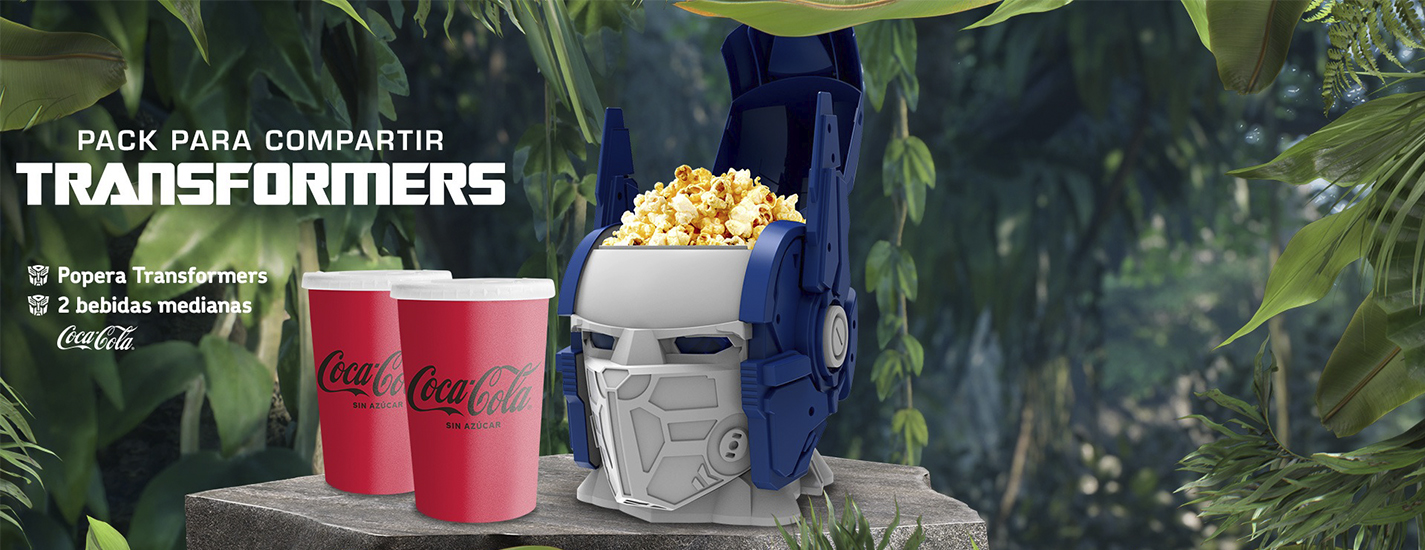
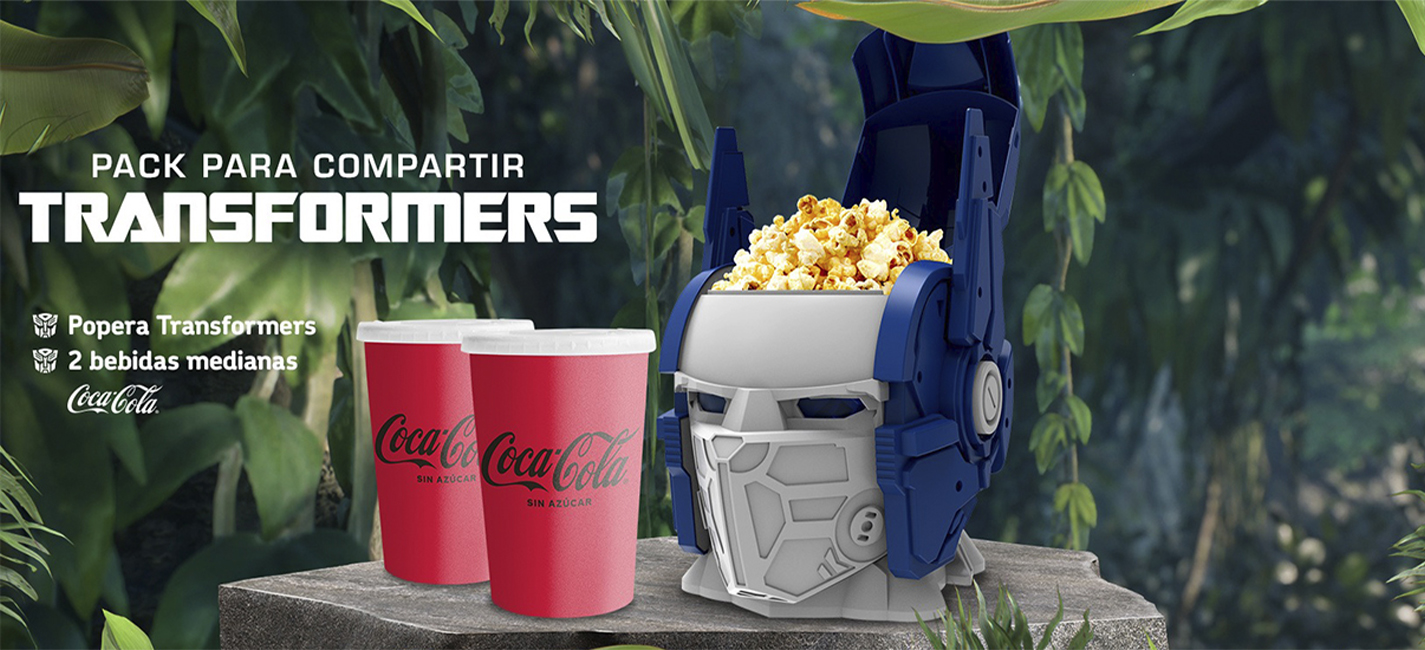
Estilo pronto

diff --git a/Pr3Obligatorio_AAN2023/wwwroot/css/styles.css b/Pr3Obligatorio_AAN2023/wwwroot/css/styles.css
@@ -10943,24 +10943,35 @@ p {
   }
 }
 header.masthead {
-  padding-top: 10.5rem;
-  padding-bottom: 6rem;
-  text-align: center;
-  color: #fff;
-  background-repeat: no-repeat;
-  background-attachment: scroll;
-  background-position: center center;
-  background-size: cover;
-  background-image: src(../assets/img/fondoCine.jpg)
+    padding-top: 10.5rem;
+    padding-bottom: 6rem;
+    text-align: center;
+    color: #fff;
+    background-repeat: no-repeat;
+    background-attachment: scroll;
+    background-position: center center;
+    background-size: cover;
+    background-image: url(/assets/img/fondoCine.jpg);
 }
-header.masthead .masthead-subheading {
+header.masthead2 {
+    padding-top: 10.5rem;
+    padding-bottom: 6rem;
+    text-align: center;
+    color: #fff;
+    background-repeat: no-repeat;
+    background-attachment: scroll;
+    background-position: center center;
+    background-size: cover;
+    background-image: url(/assets/img/FondoPrincipal.jpg);
+}
+header.masthead2 .masthead-subheading {
   font-size: 1.5rem;
   font-style: italic;
   line-height: 1.5rem;
   margin-bottom: 25px;
   font-family: "Roboto Slab", -apple-system, BlinkMacSystemFont, "Segoe UI", Roboto, "Helvetica Neue", Arial, sans-serif, "Apple Color Emoji", "Segoe UI Emoji", "Segoe UI Symbol", "Noto Color Emoji";
 }
-header.masthead .masthead-heading {
+header.masthead2 .masthead-heading {
   font-size: 3.25rem;
   font-weight: 700;
   line-height: 3.25rem;
@@ -10969,17 +10980,17 @@ header.masthead .masthead-heading {
 }
 
 @media (min-width: cover) {
-  header.masthead {
+  header.masthead2 {
     padding-top: 17rem;
     padding-bottom: 12.5rem;
   }
-  header.masthead .masthead-subheading {
+  header.masthead2 .masthead-subheading {
     font-size: 2.25rem;
     font-style: italic;
     line-height: 2.25rem;
     margin-bottom: 2rem;
   }
-  header.masthead .masthead-heading {
+  header.masthead2 .masthead-heading {
     font-size: 4.5rem;
     font-weight: 700;
     line-height: 4.5rem;
